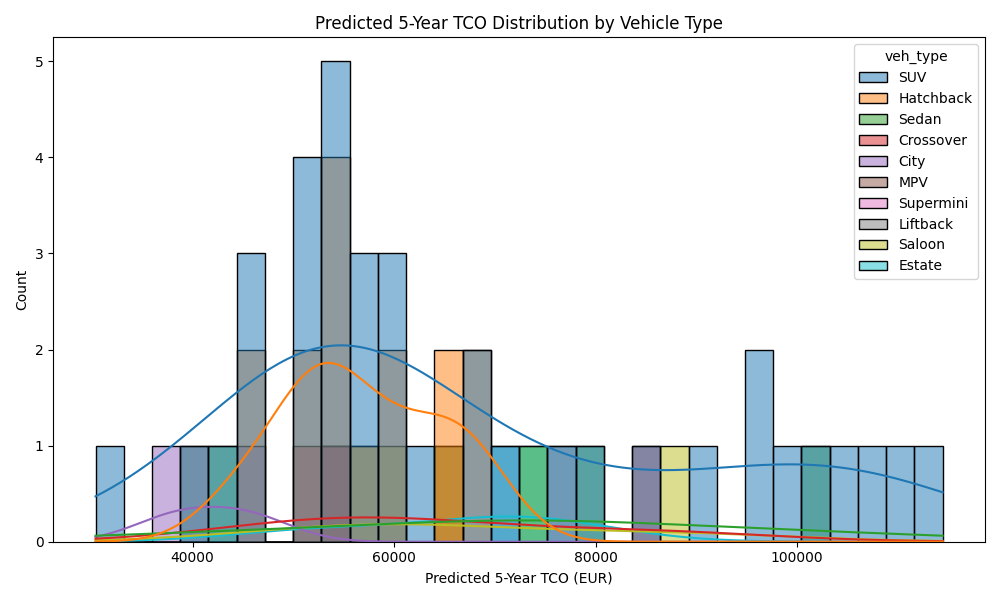
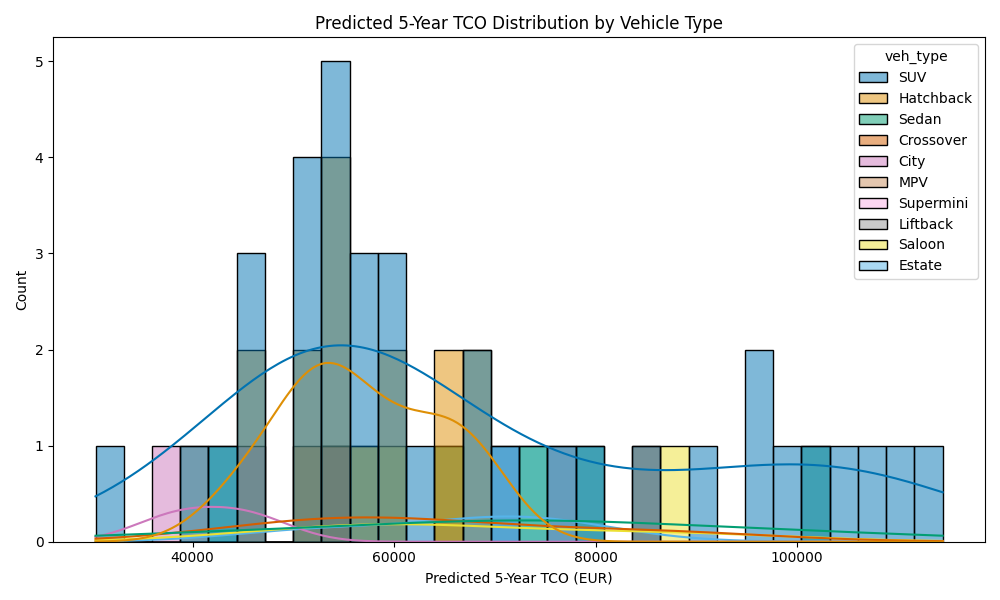
updates

diff --git a/clean_dataset.py b/clean_dataset.py
@@ -7,7 +7,7 @@ df=pd.read_csv("dataset_with_tco.csv")
 print("Original Data:\n", df.head())
 
 
-#although I have refined the datasets abit, there could be duplicates, now to drop them
+#although I have refined the datasets a bit, there could be duplicates, now to drop them
 df.drop_duplicates(inplace=True)
 
 #to fill missing numbers with column mean, and to fill missing text with 'unknown' to reduce errors
@@ -22,5 +22,3 @@ for col in df.select_dtypes(include=['object']).columns:
 # now to save my cleaned dataset
 df.to_csv("cleaned_vehicle_dataset.csv", index=False)
 print("Cleaned dataset saved as cleaned_vehicle_dataset.csv") 
-
-

diff --git a/graph_representation.py b/graph_representation.py
@@ -97,7 +97,7 @@ ml_df["predicted_tco"] = y_pred
 valid_types = ["SUV", "Hatchback", "Sedan", "Crossover", "MPV", "City", "Supermini", "Saloon", "Estate", "Liftback"]
 ml_df = ml_df[ml_df["veh_type"].isin(valid_types)]
 plt.figure(figsize=(10, 6))
-sns.histplot(data=ml_df, x="predicted_tco", hue="veh_type", kde=True, bins=30, palette="tab10")
+sns.histplot(data=ml_df, x="predicted_tco", hue="veh_type", kde=True, bins=30, palette="colorblind")
 plt.title("Predicted 5-Year TCO Distribution by Vehicle Type")
 plt.xlabel("Predicted 5-Year TCO (EUR)")
 plt.ylabel("Count")

diff --git a/recommendation_engine.py b/recommendation_engine.py
@@ -107,10 +107,6 @@ joblib.dump(rf, "rf_tco_model_irish.joblib")
 print(f"RandomForest trained (Irish rates) -- R2: {r2:.3f}, RMSE: {rmse:.2f} EUR")
 
 
-
-
-
-
 # My vehicle recommendation function
 # this returns affordable and stretch options based on the user budget and monthly distance.
 def recommend_vehicles(budget_eur, monthly_km, stretch_pct=0.10, top_n=10):
